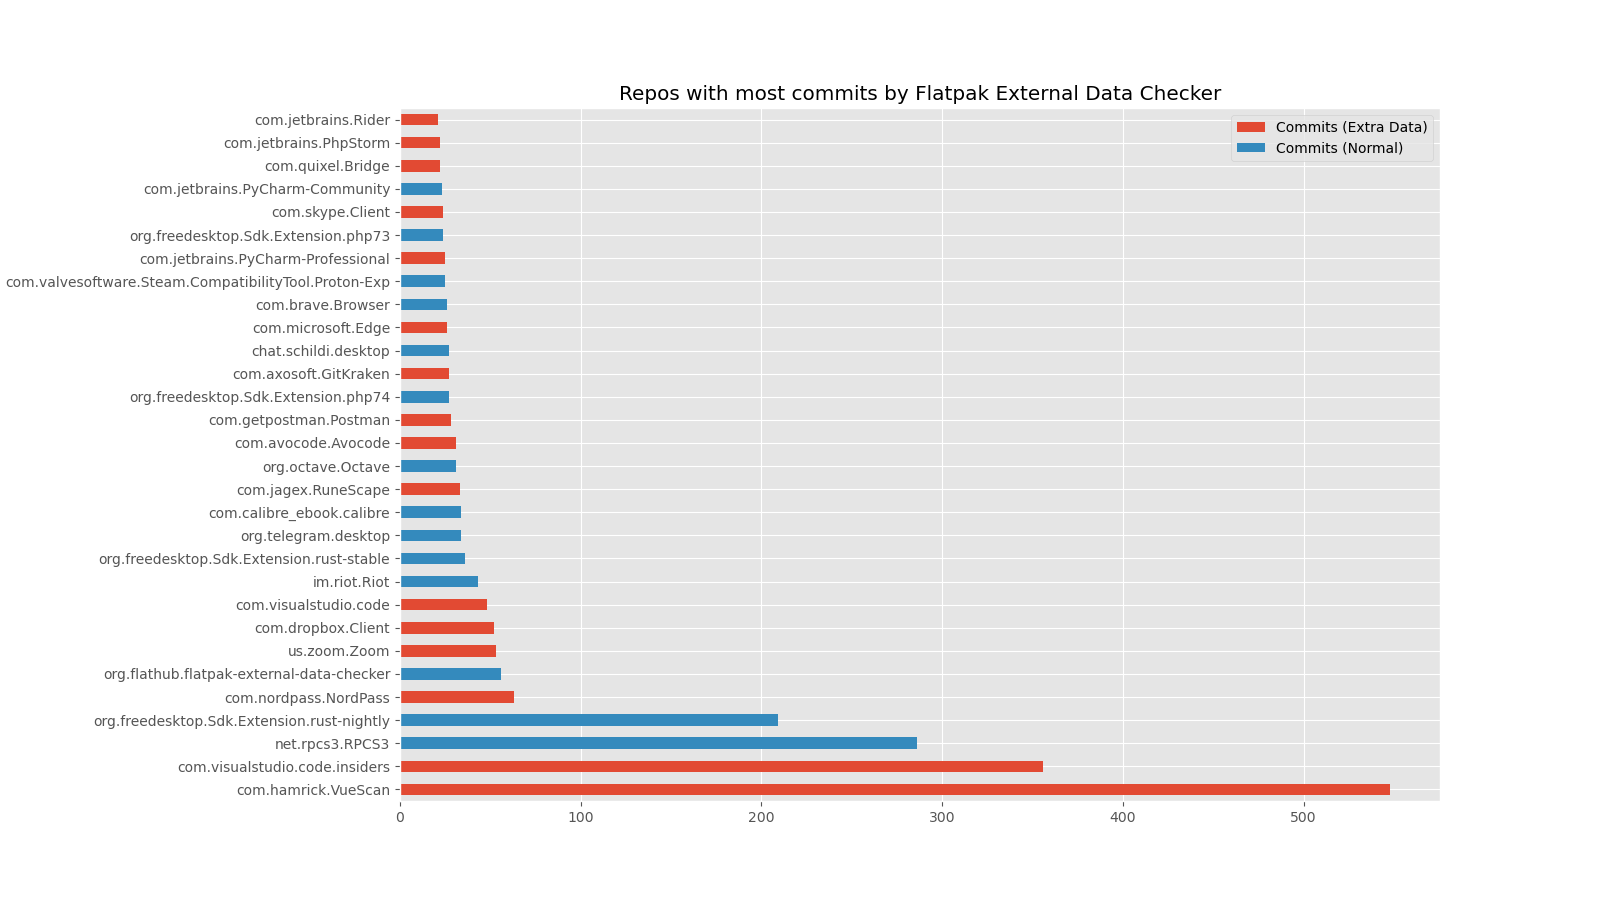
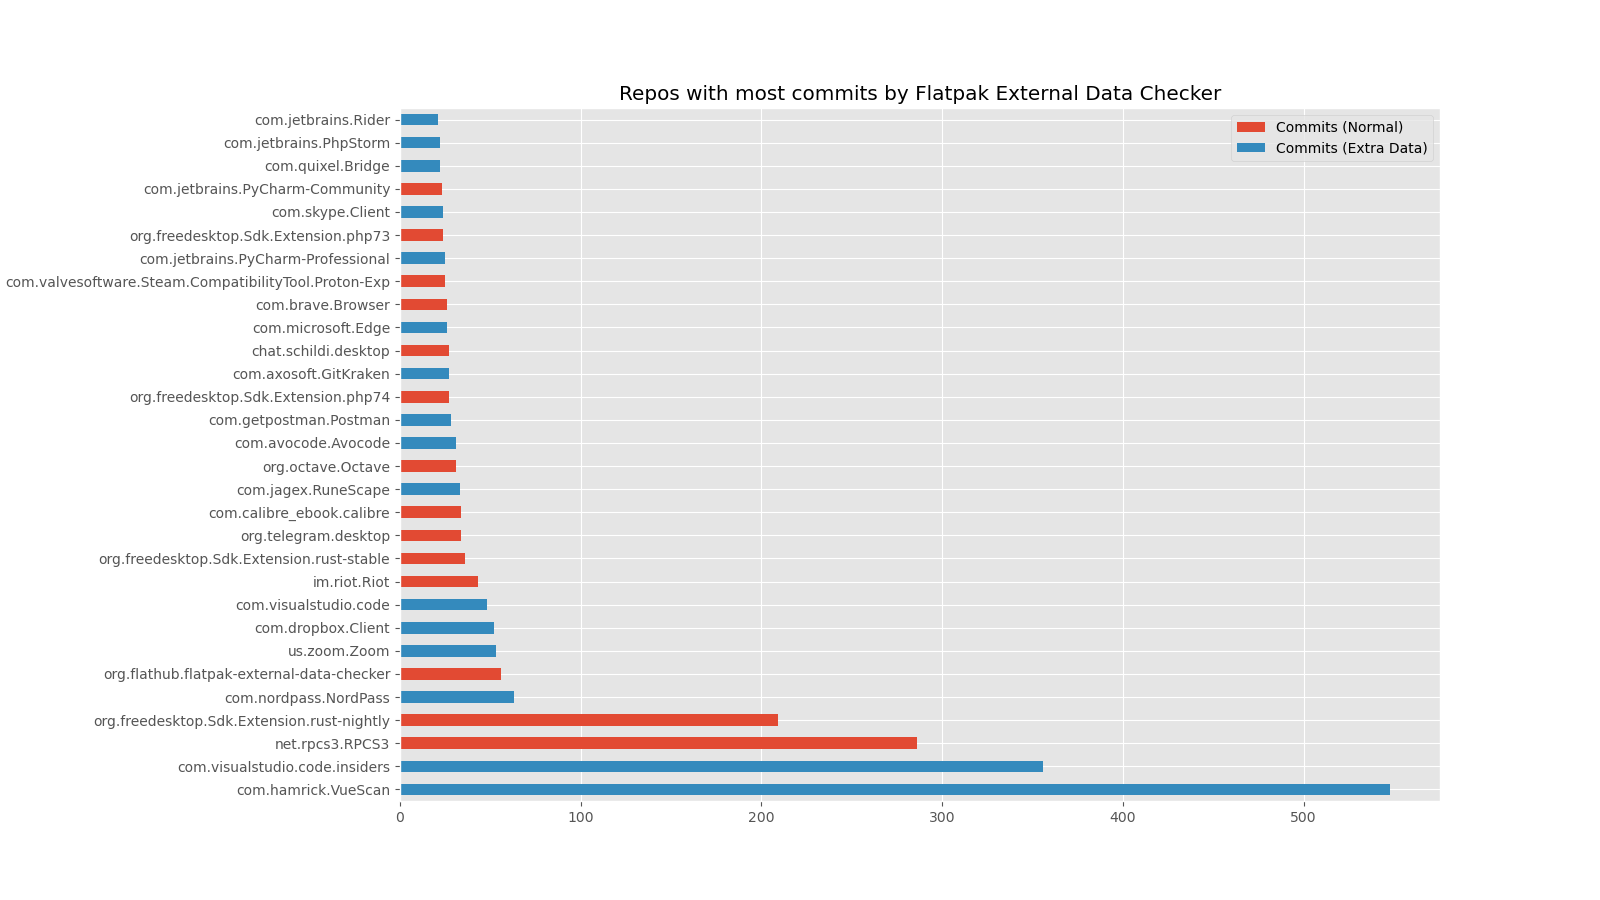
Make top-repos colours match repos-over-time

Changed region(s): [[0.25, 0.1244, 0.875, 0.9022], [0.8438, 0.1244, 0.9062, 0.1867]]

diff --git a/talk.md b/talk.md
@@ -165,7 +165,7 @@ Anyway, back to what the tool does. Here I've plotted the number of repositories
 
 Here are the top 30 apps and runtimes by number of commits authored by flatpak-external-data-checker.
 
-I've coloured the bars by whether the the app is extra-data or not. I've just realised that the colours are the opposite way round compared to the earlier slide... Here, extra-data apps are red, and normal apps are blue.
+Again I've coloured the bars by whether the the app is extra-data or not.
 
 Of course this will be biased towards apps which have been using the tool for longer. 
 
